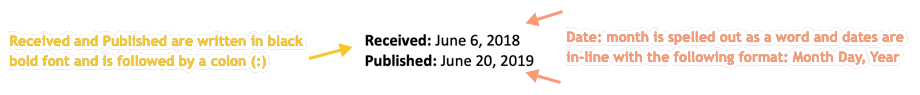
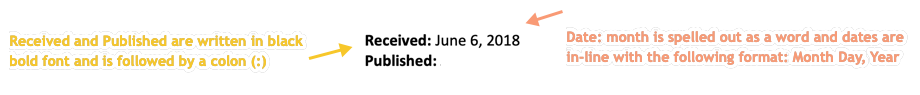
editorials/pdf/dates_updated
Dates section updated along with pics

Changed region(s): [[0.4565, 0.5684, 0.5783, 0.7158], [0.5478, 0.7368, 0.6087, 0.8842]]

diff --git a/editorials_pdf.rst b/editorials_pdf.rst
@@ -759,15 +759,15 @@ Copyright section can be found at the end of the article right after the Keyword
 18. Dates
 ---------
 
-Received and published dates can be found at the end of the article right after the Copyright section.
+Dates section can be found at the end of the article right after the Copyright section.
 
-18.1. Check that received and published dates are separated from Copyright section by blank line.
+18.1. Check that dates section is separated from Copyright section by blank line.
 
 18.2. Check that "Received:" and "Published:" titles are :ref:`title case<title_case>` and followed by colon (:).
 
-18.3. Check that "Received:" and "Published:" are formatted in black and bold font.
+18.3. Check that "Received:" and "Published:" titles are formatted in black and bold font.
 
-18.4. Check that "Received:" and "Published:" titles are each followed by a date.
+18.4. Check that "Received:" title is followed by a date (Published date will not be present).
 
 18.5. Check that month is spelled out as a word and dates are in-line with the following format: Month Day, Year
 (e.g. June 1, 2017, April 12, 2016, December 31, 2015, etc.) Note: if a day is presented by single digit, there should be no leading 0.
